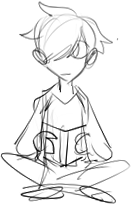
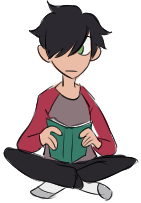
updated modal art and changed the modal size, plus added hover effects.

diff --git a/assets/css/style.scss b/assets/css/style.scss
@@ -33,6 +33,7 @@ $tabby: #D58543;
 
 /* Colors */
 $warm-bright: #ffa600;
+$bright-purple: rgb(133, 52, 187);
 $gradient1: rgb(59, 64, 110);
 $gradient2: rgb(216, 238, 250);
 $dark-bg: rgba(39, 41, 63, 0);
@@ -203,7 +204,6 @@ nav {
     img {
         display:block;
         margin: auto;
-        max-height: 350px;
         }
     &.mini-bc {
         width: 200px;
@@ -316,6 +316,7 @@ section {
   overflow: auto; /* Enable scroll if needed */
   background-color: rgb(0,0,0); /* Fallback color */
   background-color: rgba(0,0,0,0.4); /* Black w/ opacity */
+  
 
 }
 
@@ -325,21 +326,42 @@ section {
   margin: 15% auto; /* 15% from the top and centered */
   padding: 20px;
   border: 1px solid #888;
+  border-radius: 5px;
+  
   max-width: 500px;
     -webkit-animation-name: animatetop;
     -webkit-animation-duration: 0.4s;
     animation-name: animatetop;
     animation-duration: 0.4s
+
 }
 
 .modal-button {
+    border-radius: 5px;
+    box-shadow: 6px 6px 0px rgba(0, 0, 0, .25);
+    transition: 0.5s;
+    
     cursor: pointer;
-    h2, img {
-        pointer-events: none;
+
+    h2, img {pointer-events: none;}
+
+    h2 {
+        position:absolute;
+        visibility: hidden;
+        color: black;
+        padding: 10px;
+        background-color: $rajah;
+        border-radius: 100px;
+        box-shadow: 3px 3px 0px rgba(0, 0, 0, .25);
     }
+
     &:hover {
-        border-color: rgb(168, 70, 233);
+        border-color: $bright-purple;
         color: $extra-dark;
+        margin-top: -10px;
+        h2 {
+            visibility: visible;
+        }
     }
 }
 /* The Close Button */

diff --git a/assets/css/style.css b/assets/css/style.css
@@ -174,7 +174,6 @@ nav li a:hover {
 .blogcard img {
   display: block;
   margin: auto;
-  max-height: 350px;
 }
 .blogcard.mini-bc {
   width: 200px;
@@ -294,6 +293,7 @@ section p {
   margin: 15% auto; /* 15% from the top and centered */
   padding: 20px;
   border: 1px solid #888;
+  border-radius: 5px;
   max-width: 500px;
   -webkit-animation-name: animatetop;
   -webkit-animation-duration: 0.4s;
@@ -302,14 +302,30 @@ section p {
 }
 
 .modal-button {
+  border-radius: 5px;
+  box-shadow: 6px 6px 0px rgba(0, 0, 0, 0.25);
+  transition: 0.5s;
   cursor: pointer;
 }
 .modal-button h2, .modal-button img {
   pointer-events: none;
 }
+.modal-button h2 {
+  position: absolute;
+  visibility: hidden;
+  color: black;
+  padding: 10px;
+  background-color: #fbb268;
+  border-radius: 100px;
+  box-shadow: 3px 3px 0px rgba(0, 0, 0, 0.25);
+}
 .modal-button:hover {
-  border-color: rgb(168, 70, 233);
+  border-color: rgb(133, 52, 187);
   color: #281B17;
+  margin-top: -10px;
+}
+.modal-button:hover h2 {
+  visibility: visible;
 }
 
 /* The Close Button */
